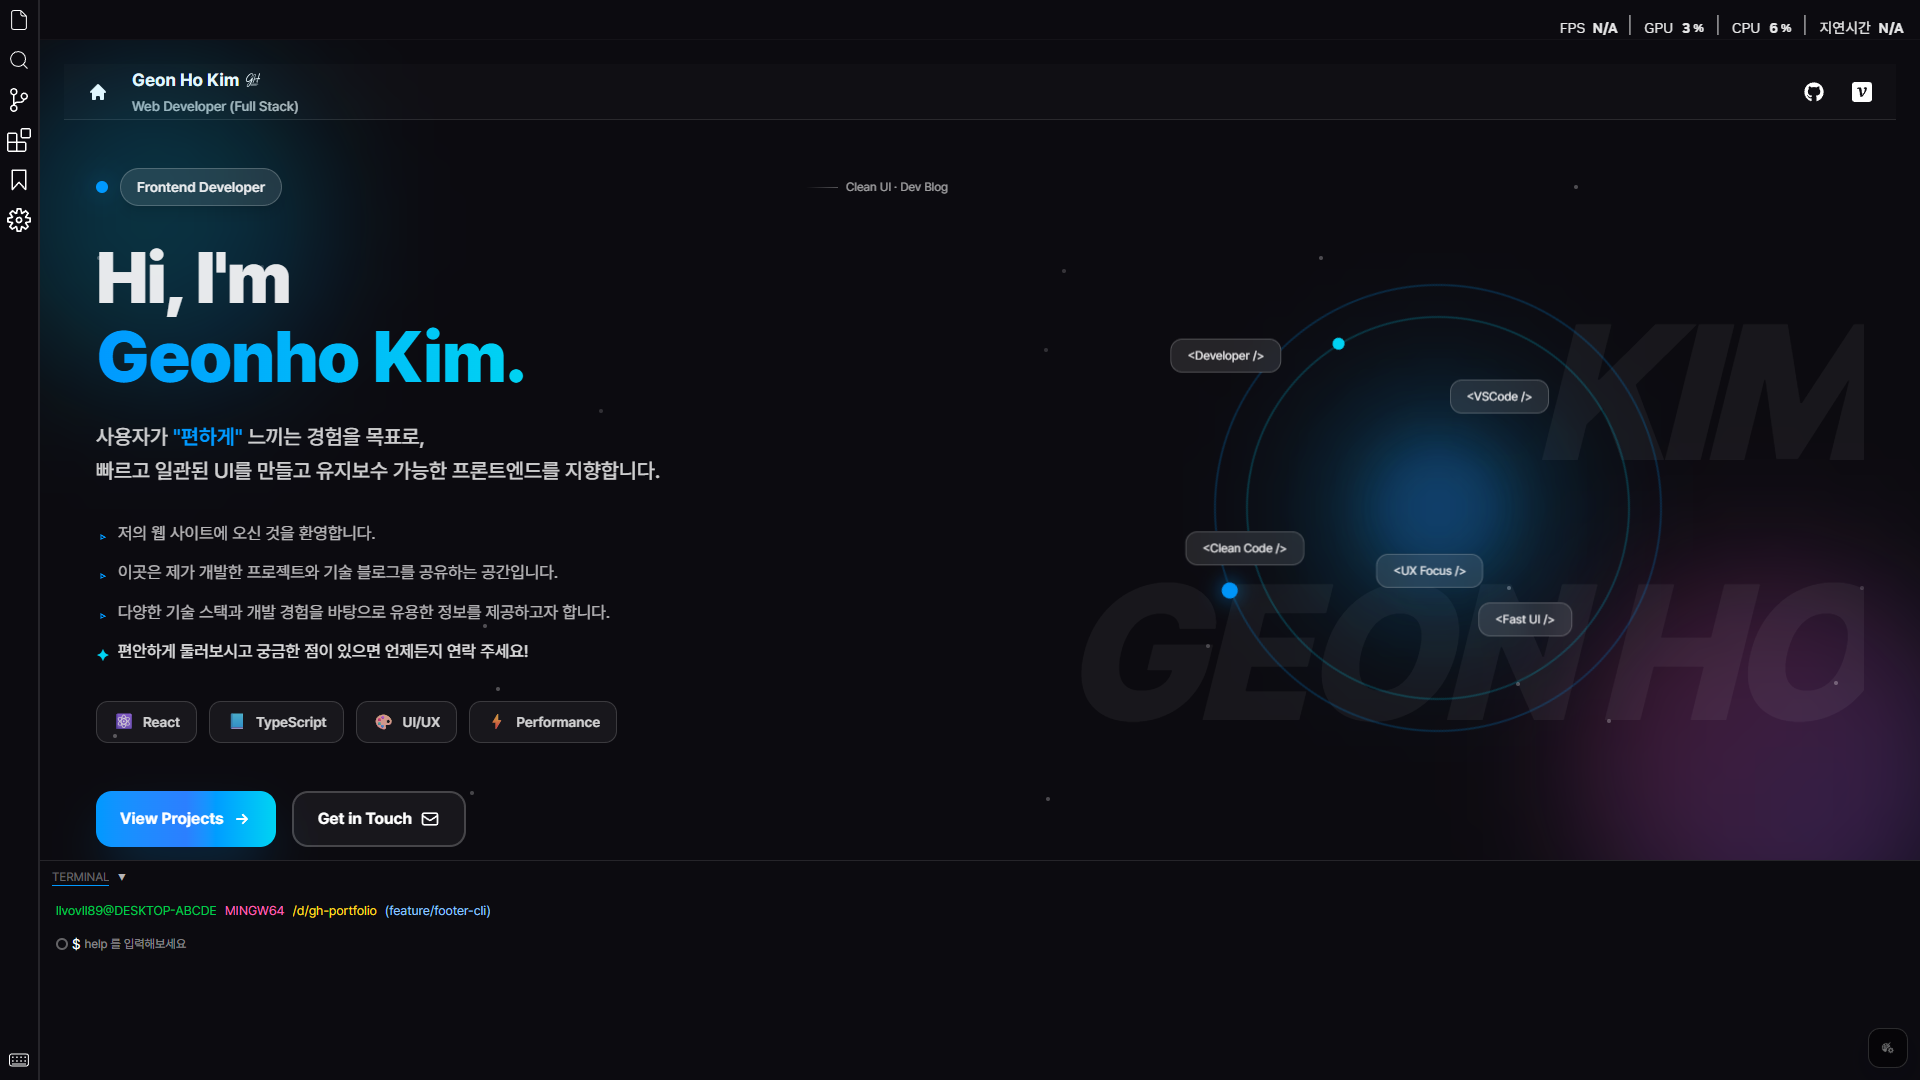
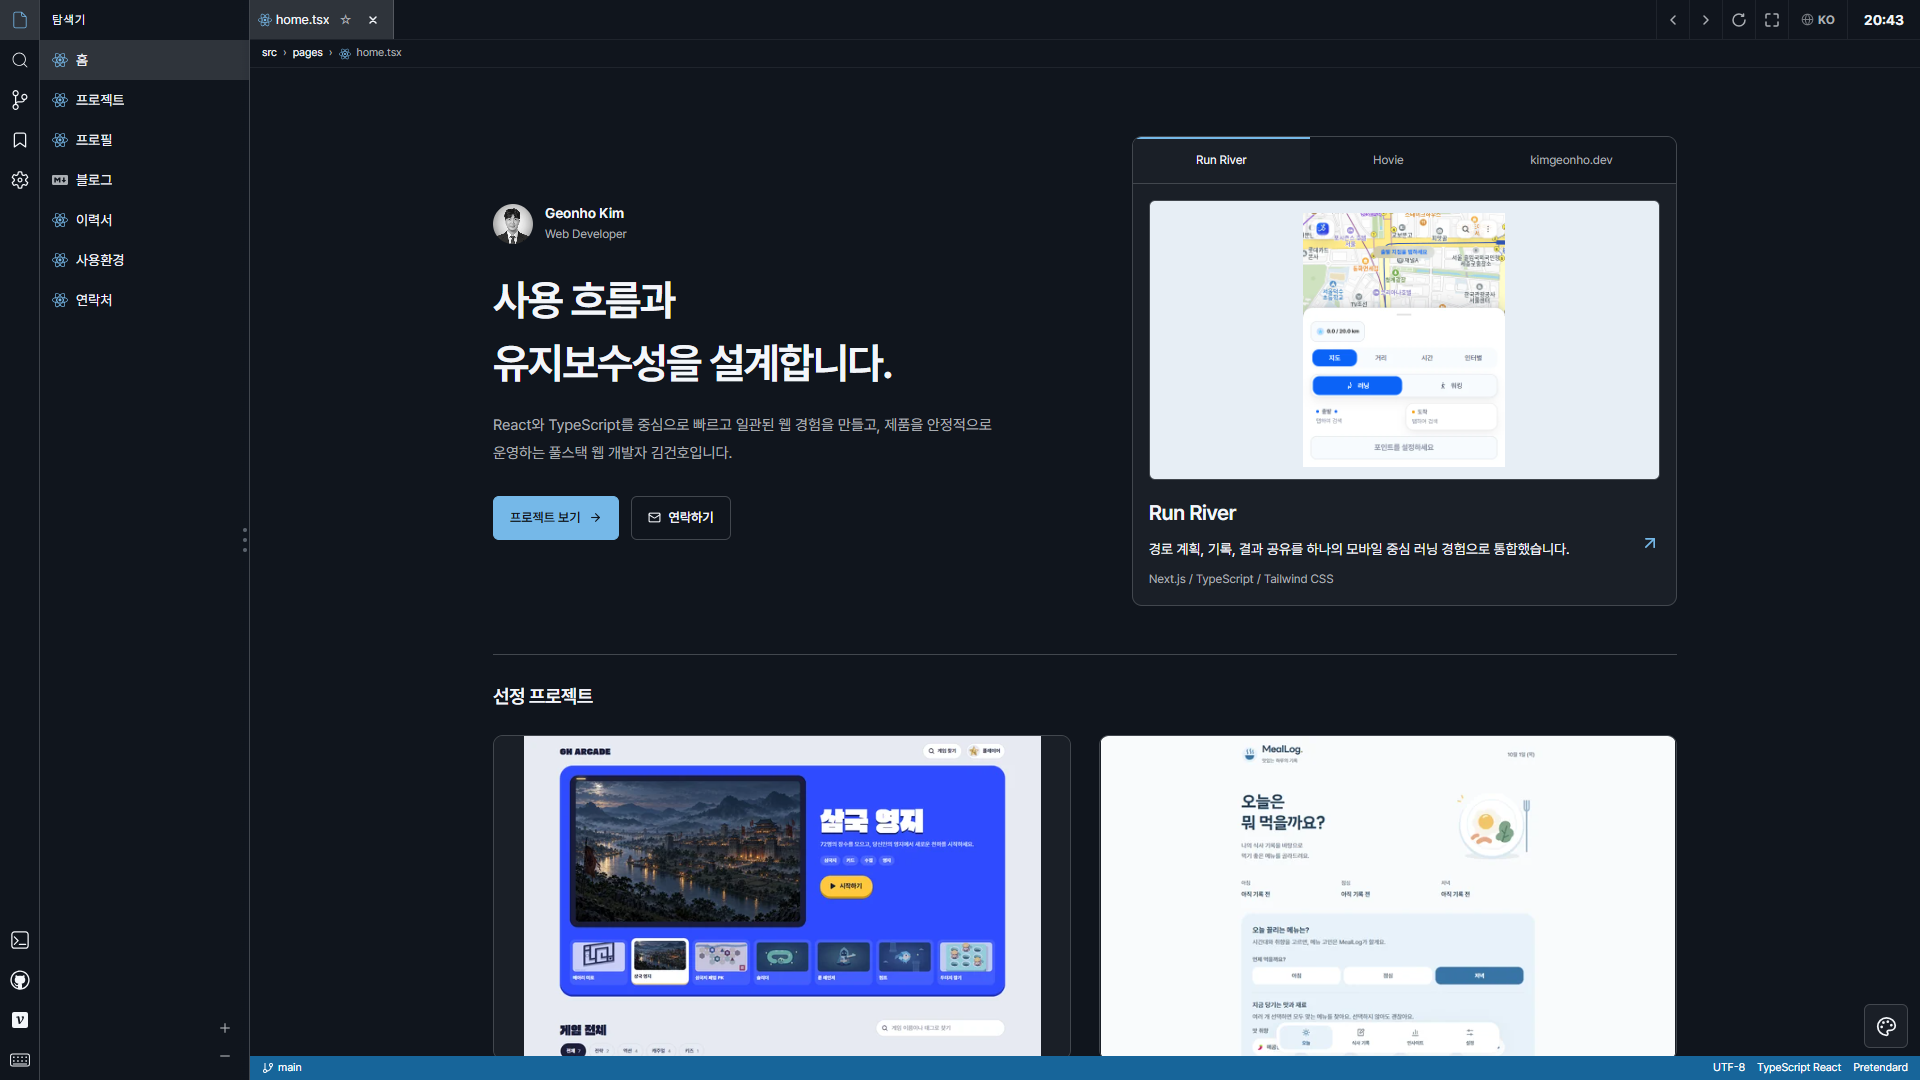
test: add browser smoke test with axe; fix issues it found
- scripts/smoke.mjs drives every route in light/dark with system Chrome/Edge,
  fails on console errors or leftover prerender content, reports axe WCAG 2.2 AA violations; runs in CI
- Firebase missing env no longer crashes the whole blog: views/comments degrade gracefully
- accessible light code theme (a11y-one-light), share button token colors
- Uses tool links: accessible name now matches visible text (2.5.3)
- refresh kimgeonho.dev project screenshot to the current design

diff --git a/src/components/ShareButton.tsx b/src/components/ShareButton.tsx
@@ -87,11 +87,11 @@ export const ShareButton = ({ title, summary, url }: ShareButtonProps) => {
                 aria-label={uiText("포스트 공유")}
                 className={[
                     "flex items-center gap-1.5 px-3 py-1.5 rounded-lg text-xs font-medium",
-                    "text-zinc-400",
-                    "border border-zinc-700/50",
-                    "hover:text-zinc-200",
-                    "hover:border-zinc-600",
-                    "hover:bg-zinc-800/50",
+                    "text-muted",
+                    "border border-line",
+                    "hover:text-foreground",
+                    "hover:border-primary/50",
+                    "hover:bg-foreground/5",
                     "transition-all duration-200",
                 ].join(" ")}
             >
@@ -110,13 +110,13 @@ export const ShareButton = ({ title, summary, url }: ShareButtonProps) => {
                 aria-expanded={open}
                 className={[
                     "flex items-center gap-1.5 px-3 py-1.5 rounded-lg text-xs font-medium",
-                    "text-zinc-400",
-                    "border border-zinc-700/50",
-                    "hover:text-zinc-200",
-                    "hover:border-zinc-600",
-                    "hover:bg-zinc-800/50",
+                    "text-muted",
+                    "border border-line",
+                    "hover:text-foreground",
+                    "hover:border-primary/50",
+                    "hover:bg-foreground/5",
                     "transition-all duration-200",
-                    open ? "bg-zinc-800/50 border-zinc-600" : "",
+                    open ? "bg-foreground/5 border-primary/50" : "",
                 ].join(" ")}
             >
                 <LuShare2 className="w-3.5 h-3.5" />

diff --git a/src/utils/blogViews.ts b/src/utils/blogViews.ts
@@ -29,6 +29,7 @@ function markViewedInSession(slug: string): void {
 
 export async function incrementViewCount(slug: string): Promise<void> {
     if (hasViewedInSession(slug)) return;
+    if (!db) return;
     markViewedInSession(slug);
     const ref = doc(db, COLLECTION, slug);
     await setDoc(ref, { count: increment(1) }, { merge: true });
@@ -40,6 +41,7 @@ let countsCache: { promise: Promise<Map<string, number>>; fetchedAt: number } | 
 
 function loadAllViewCounts(): Promise<Map<string, number>> {
     if (countsCache && Date.now() - countsCache.fetchedAt < COUNTS_TTL_MS) return countsCache.promise;
+    if (!db) return Promise.resolve(new Map<string, number>());
     const promise = getDocs(collection(db, COLLECTION)).then((snap) => {
         const counts = new Map<string, number>();
         snap.forEach((d) => {
@@ -62,6 +64,7 @@ export function subscribeViewCount(
     slug: string,
     callback: (count: number) => void
 ): () => void {
+    if (!db) return () => {};
     const ref = doc(db, COLLECTION, slug);
     return onSnapshot(ref, (snap) => {
         callback(snap.exists() ? (snap.data().count as number) ?? 0 : 0);

diff --git a/src/firebase/config.ts b/src/firebase/config.ts
@@ -1,5 +1,5 @@
 import { initializeApp } from 'firebase/app'
-import { getFirestore } from 'firebase/firestore'
+import { getFirestore, type Firestore } from 'firebase/firestore'
 
 // Firebase 설정
 const firebaseConfig = {
@@ -25,16 +25,10 @@ const missingKeys = REQUIRED_FIREBASE_ENV_KEYS.filter((key) => {
   return typeof value !== 'string' || !value.trim()
 })
 
+// 환경변수가 없어도 정적 콘텐츠(블로그 본문 등)는 동작하도록 예외 대신 기능만 비활성화
 if (missingKeys.length > 0) {
-  throw new Error(
-    `[Firebase] 필수 환경변수가 누락되었습니다: ${missingKeys.join(', ')}`,
-  )
+  console.warn(`[Firebase] 환경변수가 없어 조회수·댓글 기능을 비활성화합니다: ${missingKeys.join(', ')}`)
 }
 
-// Firebase 앱 초기화
-const app = initializeApp(firebaseConfig)
-
-// Firestore 인스턴스
-export const db = getFirestore(app)
-
-export default app
+// Firestore 인스턴스 (미설정 시 null)
+export const db: Firestore | null = missingKeys.length === 0 ? getFirestore(initializeApp(firebaseConfig)) : null

diff --git a/src/pages/blog/contents/MarkdownRender.tsx b/src/pages/blog/contents/MarkdownRender.tsx
@@ -4,7 +4,8 @@ import ReactMarkdown from "react-markdown";
 import remarkGfm from "remark-gfm";
 // PrismAsyncLight 는 전체 언어(~280개)를 청크로 내보내 PWA precache 가 비대해짐 → 사용하는 언어만 정적 등록
 import { PrismLight as SyntaxHighlighter } from "react-syntax-highlighter";
-import oneLight from "react-syntax-highlighter/dist/esm/styles/prism/one-light";
+// 라이트 테마는 토큰 대비가 WCAG AA(4.5:1)를 만족하는 a11y-one-light 사용
+import oneLight from "react-syntax-highlighter/dist/esm/styles/prism/a11y-one-light";
 import { useThemeStyle } from "../../../hooks/useThemeStyle";
 import vscDarkPlus from "react-syntax-highlighter/dist/esm/styles/prism/vsc-dark-plus";
 import tsxLang from "react-syntax-highlighter/dist/esm/languages/prism/tsx";

diff --git a/src/utils/blogComments.ts b/src/utils/blogComments.ts
@@ -19,16 +19,17 @@ export class CommentRequestError extends Error {
     }
 }
 
-function entriesRef(slug: string) {
-    return collection(db, 'blog_comments', slug, 'entries')
-}
-
 export function subscribeBlogComments(
     slug: string,
     callback: (comments: BlogComment[]) => void,
     onError?: () => void,
 ): () => void {
-    const q = query(entriesRef(slug), orderBy('createdAt', 'desc'))
+    // Firebase 미설정 환경: 기존 로드 실패 UI 로 안내
+    if (!db) {
+        queueMicrotask(() => onError?.())
+        return () => {}
+    }
+    const q = query(collection(db, 'blog_comments', slug, 'entries'), orderBy('createdAt', 'desc'))
     return onSnapshot(q, (snap) => {
         const list: BlogComment[] = []
         snap.forEach((d) => {

diff --git a/src/pages/uses/Uses.tsx b/src/pages/uses/Uses.tsx
@@ -154,7 +154,6 @@ export const Uses = () => {
                                             href={tool.link}
                                             target="_blank"
                                             rel="noopener noreferrer"
-                                            aria-label={uiText("자세히 보기") + ": " + tool.name}
                                             className={[
                                                 "tool-item group relative overflow-hidden",
                                                 "rounded-xl p-5",

diff --git a/src/@types/syntax-highlighter.d.ts b/src/@types/syntax-highlighter.d.ts
@@ -1,0 +1,6 @@
+// @types/react-syntax-highlighter(15.x)에 아직 없는 스타일 모듈 선언
+declare module "react-syntax-highlighter/dist/esm/styles/prism/a11y-one-light" {
+    import type { CSSProperties } from "react";
+    const style: { [key: string]: CSSProperties };
+    export default style;
+}
